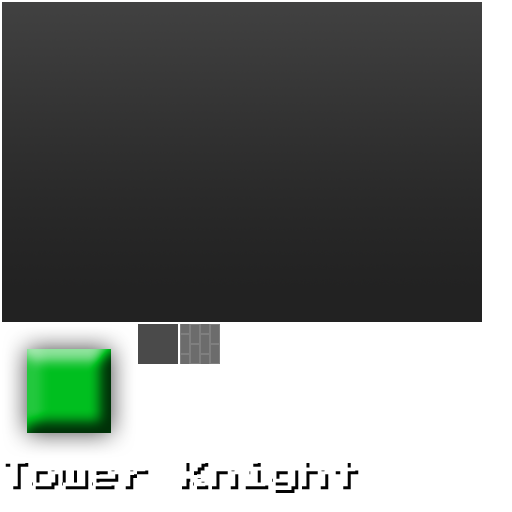
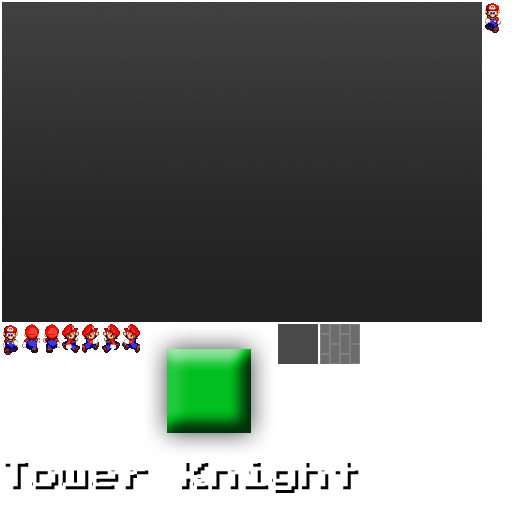
Add mario placeholder

Changed region(s): [[0.0, 0.625, 0.7188, 0.875], [0.9375, 0.0, 1.0, 0.0625]]

diff --git a/Assets/Scripts/Scenes/GameScene.cs b/Assets/Scripts/Scenes/GameScene.cs
@@ -8,13 +8,12 @@ public class GameScene : BaseScene
 		
 	}
 	
-	float timeDelta=0;
-	
+	float timeDelta = 0;
 	float targetX = 0;
 	float targetY = 0;
-	
 	FTmxMap room1;
 	FTilemap fTileMap;
+	FAnimatedSprite character;
 	
 	public override void HandleAddedToStage ()
 	{
@@ -36,11 +35,23 @@ public class GameScene : BaseScene
 		
 		AddChild (room1);
 		
+		character = new FAnimatedSprite ("character");
+		character.addAnimation (new FAnimation ("walkDown", new int[] {1,2}, 300, true));
+		character.addAnimation (new FAnimation ("walkUp", new int[] {3,4}, 300, true));
+		character.addAnimation (new FAnimation ("walkRight", new int[] {5,6}, 300, true));
+		character.addAnimation (new FAnimation ("walkLeft", new int[] {7,8}, 300, true));
+		character.play ("walkDown");
+		
+		AddChild (character);
+		
 		
 		FNode objectLayer = room1.getLayerNamed ("PlayerSpawn");
 		FSprite f = (FSprite)((FContainer)objectLayer).GetChildAt (0);
-		Futile.stage.x = targetX = -f.x;
-		Futile.stage.y = targetY = -f.y;
+		targetX = f.x;
+		targetY = f.y;
+		
+		character.x = f.x;
+		character.y = f.y;
 		
 		
 		fTileMap = (FTilemap)room1.getLayerNamed ("Tile Layer 1");
@@ -55,27 +66,39 @@ public class GameScene : BaseScene
 			FSprite selectedTile = fTileMap.getTileAt (Input.mousePosition.x - Futile.stage.x - Futile.screen.halfWidth, Screen.height - Input.mousePosition.y + Futile.stage.y - Futile.screen.halfHeight);
 			if (selectedTile != null)
 			if (selectedTile.element.name.CompareTo ("tiles_1.png") == 0) {
-				targetX = -selectedTile.x;
-				targetY = -selectedTile.y;
+				targetX = selectedTile.x;
+				targetY = selectedTile.y;
 			}
 		}
 		const float cameraSpeed = 5.0f;
 		
-		if(Futile.stage.x+cameraSpeed < targetX)
-			Futile.stage.x += cameraSpeed;
-		else
-		if(Futile.stage.x-cameraSpeed > targetX)
-			Futile.stage.x -= cameraSpeed;
-		else
+		bool moving = false;
+		
+		if (character.x + cameraSpeed < targetX) {
+			character.play ("walkRight");
+			moving = true;
+			character.x += cameraSpeed;
+		} else if (character.x - cameraSpeed > targetX) {
+			character.play ("walkLeft");
+			moving = true;
+			character.x -= cameraSpeed;
+		} else
 			Futile.stage.x = targetX;
 		
-		if(Futile.stage.y+cameraSpeed < targetY)
-			Futile.stage.y += cameraSpeed;
-		else
-			if(Futile.stage.y-cameraSpeed > targetY)
-				Futile.stage.y -= cameraSpeed;
-		else
-			Futile.stage.y = targetY;
+		if (character.y + cameraSpeed < targetY) {
+			character.play ("walkUp");
+			moving = true;
+			character.y += cameraSpeed;
+		} else if (character.y - cameraSpeed > targetY) {
+			character.play ("walkDown");
+			moving = true;
+			character.y -= cameraSpeed;
+		} else
+			character.y = targetY;
+		if(!moving)
+			character.play ("walkDown");
+		Futile.stage.x = -character.x;
+		Futile.stage.y = -character.y;
 		
 	}
 	
